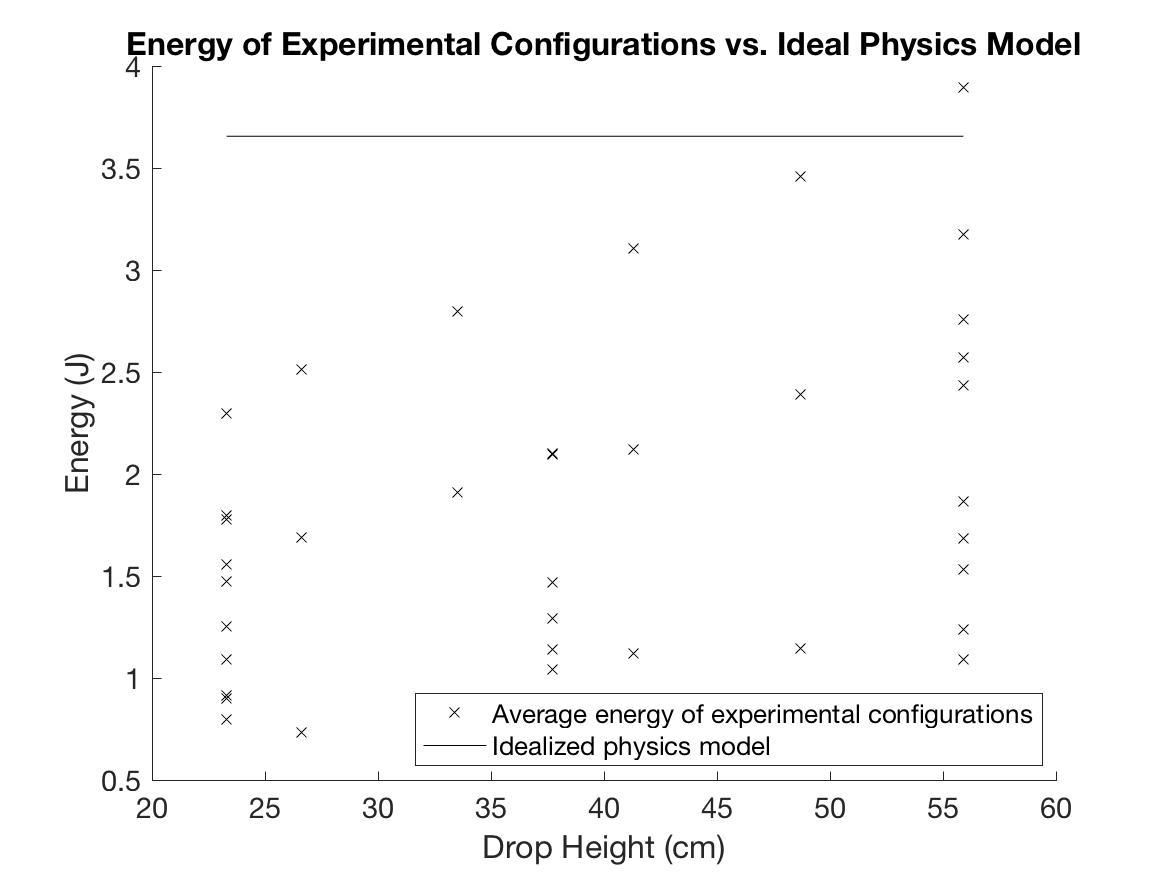
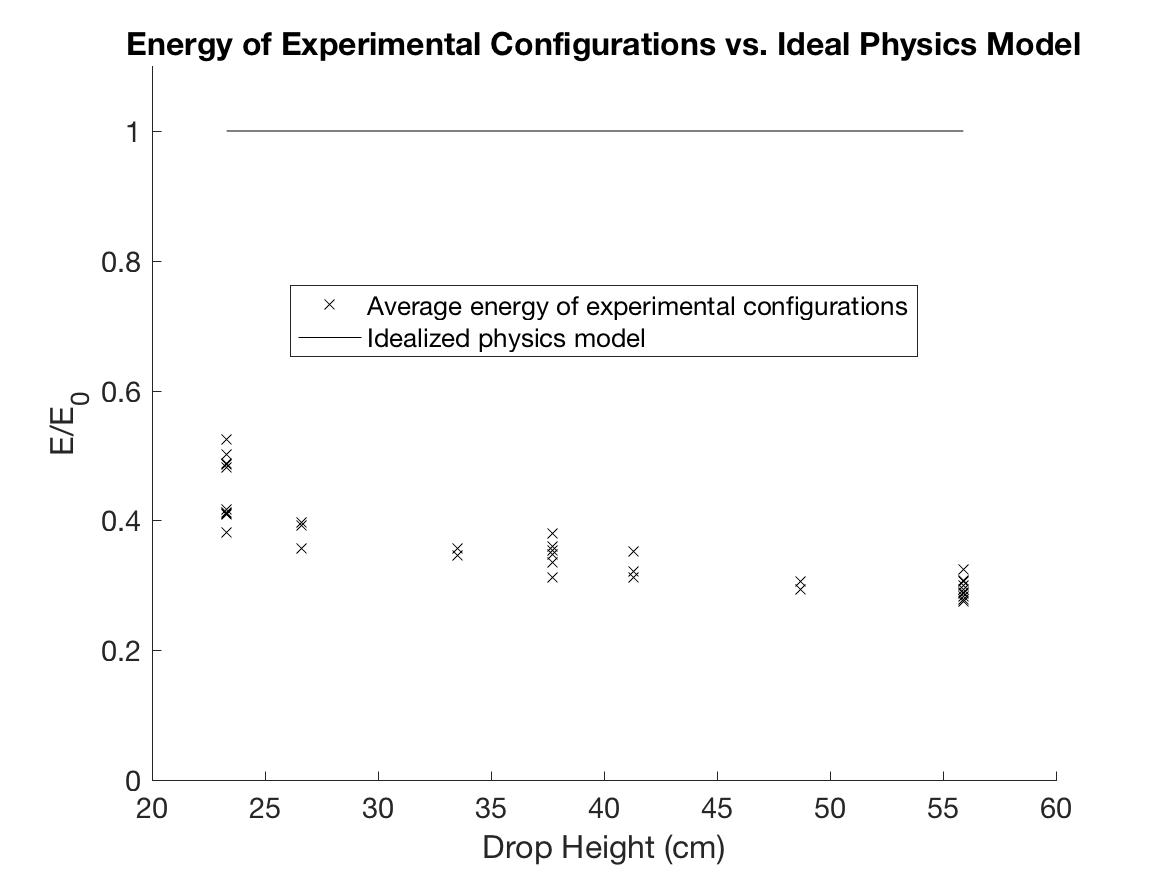
changed energy graph

diff --git a/RollCarCode/Data Processing Code/EnergyPlot.m b/RollCarCode/Data Processing Code/EnergyPlot.m
@@ -4,7 +4,7 @@ load configurations_04_12_trimmed_v_and_a;
 configs=configurations_04_12_trimmed_v_and_a;
 g=9.81; % m/s^2
 E_av=zeros(size(configs));
-E0=0; % J
+E0=[]; % J
 for m=1:length(configs)
     t=configs(m).t{1};
     y=configs(m).y{1};
@@ -15,6 +15,7 @@ for m=1:length(configs)
     E0=[E0 configs(m).m/1000*g*y(1)/100]; % in J
     E=configs(m).m/1000*g*y/100+1/2*configs(m).m/1000*(v/100).^2; % in J
     E_av(m)=mean(E);
+    E_av_nondim(m)=E_av(m)/E0(m);
 end
 
 saveFig=true;
@@ -23,11 +24,14 @@ close all;
 figure(1);
 hold on;
 mass=[configs.m];
-plot(mass,E_av,'kx');
+plot(mass,E_av_nondim,'kx');
+ylim([0, 1.1]);
+[sorted_mass, ind]=sort(mass);
+E0_sorted_mass=E0(ind);
 hold on;
-plot(mass,E0*ones(size(E_av)),'k-');
+plot(mass,ones(size(mass)),'k-');
 xlabel('Mass (g)');
-ylabel('Energy (J)');
+ylabel('E/E_0');
 legend('Average energy of experimental configurations','Idealized physics model',...
     'Location','Best');
 title('Energy of Experimental Configurations vs. Ideal Physics Model');
@@ -43,11 +47,12 @@ figure(2);
 hold on;
 rg=[configs.r];
 height=convertHeightSR([configs.h]);
-plot(rg,E_av,'kx');
+plot(rg,E_av_nondim,'kx');
+ylim([0,1.1]);
 hold on;
-plot(rg,E0*ones(size(E_av)),'k-');
+plot(rg,ones(size(mass)),'k-');
 xlabel('R_g (mm)');
-ylabel('Energy (J)');
+ylabel('E/E_0');
 legend('Average energy of experimental configurations','Idealized physics model',...
     'Location','Best');
 title('Energy of Experimental Configurations vs. Ideal Physics Model');
@@ -62,11 +67,12 @@ end
 figure(3);
 hold on;
 height=convertHeightSR([configs.h]);
-plot(height,E_av,'kx');
+plot(height,E_av_nondim,'kx');
+ylim([0, 1.1]);
 hold on;
-plot(height,E0*ones(size(E_av)),'k-');
+plot(height,ones(size(height)),'k-');
 xlabel('Drop Height (cm)');
-ylabel('Energy (J)');
+ylabel('E/E_0');
 legend('Average energy of experimental configurations','Idealized physics model',...
     'Location','Best');
 title('Energy of Experimental Configurations vs. Ideal Physics Model');
